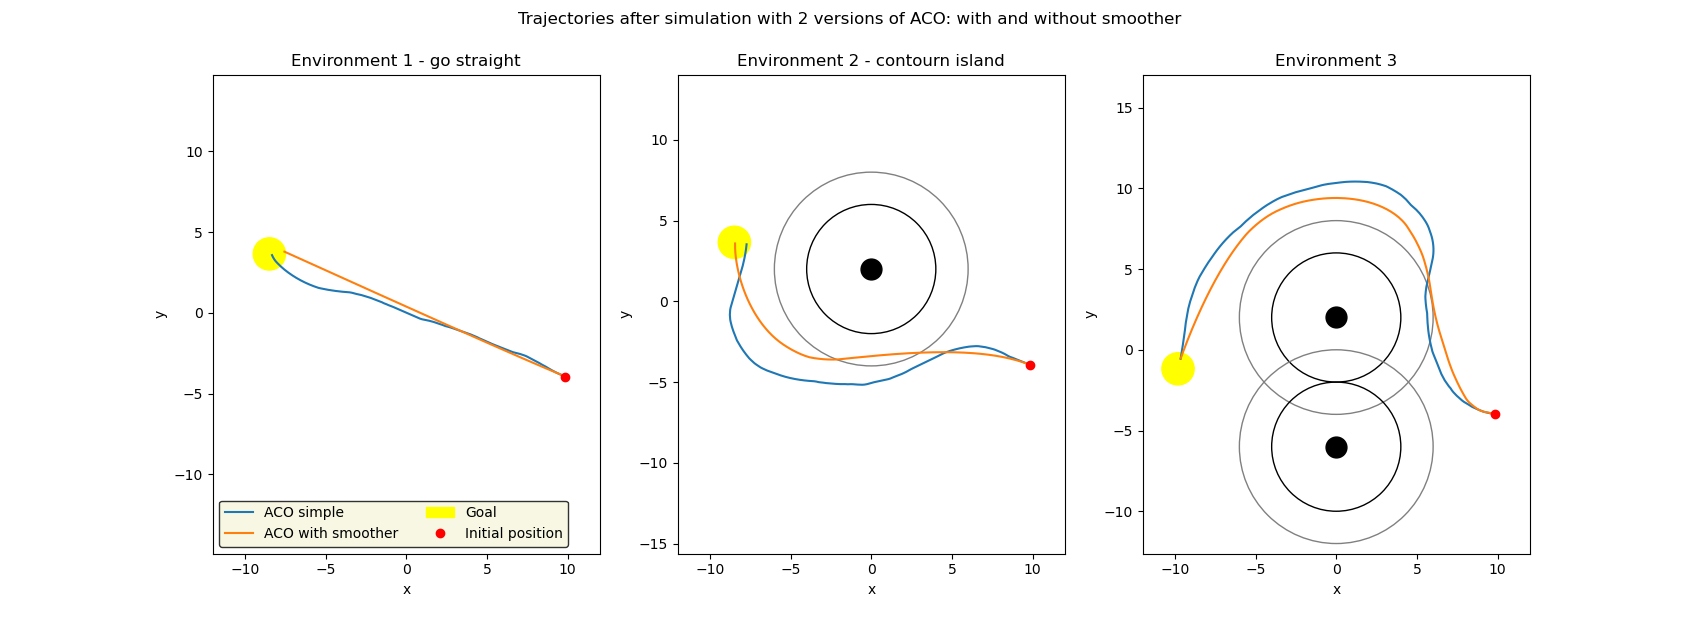
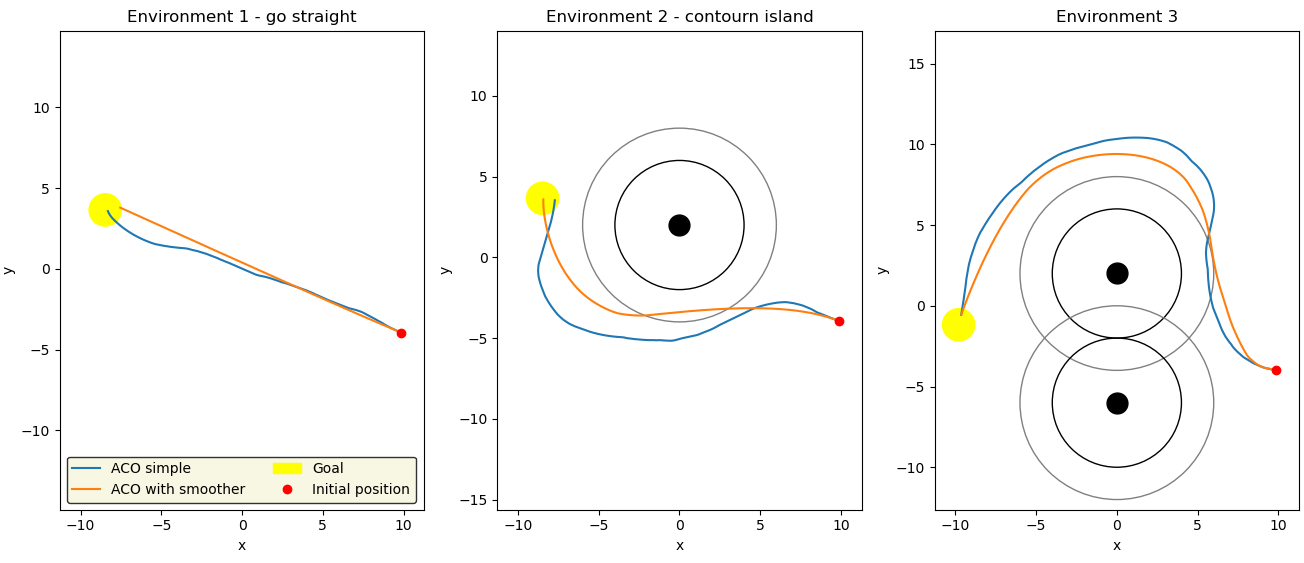
versionti

diff --git a/Algorithms_program/simulation_runner.py b/Algorithms_program/simulation_runner.py
@@ -14,7 +14,7 @@ class SimulationRunner:
         self.k = 0.5
         self.Ɛ = 2
         self.num_steps = 250         #number of steps of the simulation
-        self.environment = 4          #different environments (description below)
+        self.environment = 2          #different environments (description below)
         self.record_data = False      #set to True to record the data or to False to display the simulation
         self.rules = [
             ["Rules :"],
@@ -39,19 +39,19 @@ class SimulationRunner:
 
         if self.environment == 0:
             ''' The original simulator with 1 whale, 1 boat, 1 island and 1 ship.'''
-            sea_objects.append(Whale(111, -0.5, -3.5, 1.5, 1.5, "PSO"))
-            sea_objects.append(Boat(222, -3, 5, 1.5, 0.25, "PSO"))
+            sea_objects.append(Whale(111, -0.5, -3.5, 1.5, 1.5, "APF"))
+            sea_objects.append(Boat(222, -3, 5, 1.5, 0.25, "APF"))
             sea_objects.append(Island(333, 0, 2, 0, 1))
-            sea_objects.append(Ship(444, 10,-4, 1.5, 3, "PSO"))
+            sea_objects.append(Ship(444, 10,-4, 1.5, 3, "APF"))
      
         elif self.environment == 1:
             '''Only one ship, has to go straight.'''
-            sea_objects.append(Ship(444, 10,-4, 1.5, pi*7/8, "D*Lite"))
+            sea_objects.append(Ship(444, 10,-4, 1.5, pi*7/8, "PSO"))
 
         elif self.environment == 2:
             '''One island to slightly contourn.'''
             sea_objects.append(Island(333, 0, 2, 0, 1))
-            sea_objects.append(Ship(444, 10,-4, 1.5, pi*7/8, "D*Lite"))
+            sea_objects.append(Ship(444, 10,-4, 1.5, pi*7/8, "PSO"))
 
         elif self.environment == 3:
             '''U shape with a potential minimum.'''     # with APF, the ship is stuck at a minima
@@ -61,24 +61,24 @@ class SimulationRunner:
 
         elif self.environment == 4:
             '''Slalom with 2 islands and 1 ship.'''
-            sea_objects.append(Ship(444, 10,-10, 1.5, 2.4, "A*", 30))
+            sea_objects.append(Ship(444, 10,-10, 1.5, 2.4, "PSO", 30))
             sea_objects.append(Island(333, -2, 7, 0, 1))
             sea_objects.append(Island(332, 2, -10, 0, 1))
 
         elif self.environment == 5:
             '''Two boats facing each other.'''
-            sea_objects.append(Ship(444, 12, 0, 1.5, pi, "A*",30))
+            sea_objects.append(Ship(444, 12, 0, 1.5, pi, "PSO",30))
             sea_objects.append(Ship(555, -12, 0, 1.5, 0, "PSO",30)) 
 
         elif self.environment == 6:
             '''A ship overtaking a boat.'''
-            real=False
+            real=True
             if real==False:     #exactly overtaking
                 sea_objects.append(Ship(444, -18, 0, 3, 0, "PSO",36))      
                 sea_objects.append(Ship(555, -7, 0, 1, 0, "PSO",15))
             else:               #more realistic overtake
-                sea_objects.append(Ship(444, -15, -2, 3, 0.4, "A*",32))      
-                sea_objects.append(Ship(555, -5, 0, 1, 0, "A*",15))
+                sea_objects.append(Ship(444, -15, -2, 3, 0.4, "ACO",32))      
+                sea_objects.append(Ship(555, -5, 0, 1, 0, "ACO",15))
 
         else:
             '''Not a fixed env, to be changed.'''
@@ -96,9 +96,7 @@ class SimulationRunner:
             #sea_objects.append(Island(333, 0, 2, 0, 1))
             # sea_objects.append(Ship(555, -10, -4, 1.5, 1, "APF"))
             #sea_objects.append(Ship(444, 10,-4, 1.5, 3, "APF"))
-            
-        
-        
+                 
         return sea_objects
 
     def initialize_data(self, sea_object, rules):
@@ -126,39 +124,4 @@ class SimulationRunner:
             simulation.run_with_data(self.record_data, self.num_steps, mmsi_list, rules, table, ax, self.Ɛ, self.s)
         else:
             simulation.run(self.record_data, self.num_steps, mmsi_list, rules, table, ax, ax_leg, self.Ɛ, self.s)
-
-
-
-    # ------------------------------------------------------------------------------------------------
-
-""" Examples of initial position to test different cases """
-
-''' Four boats '''
-# sea_objects.append(Boat(111, -2.5, -3.5, 1.5, 0.25))  # x,y,v,θ of the boat
-# sea_objects.append(Boat(222, 1.5, 1.5, 0.5, 1))  # x,y,v,θ of the boat
-# sea_objects.append(Boat(333, -1, 3, 1.5, 4.75))  # x,y,v,θ of the boat
-# sea_objects.append(Boat(444, 0, 0, 0.25, 2))
-
-''' Left lower zone '''
-# xp = array([[-2.5,-5,2,1]]).T      #x,y,v,θ of the boat
-# xq = array([[2,0,0.25,2]]).T    #x,y,v,θ of the obstacle boat
-
-''' Right lower zone '''
-# xp = array([[5,-6,1.5,2]]).T      #x,y,v,θ of the boat
-# xq = array([[0,0,0.25,2]]).T    #x,y,v,θ of the obstacle boat
-
-''' Left upper zone '''
-# xp = array([[-1,2,1.5,5]]).T      #x,y,v,θ of the boat
-# xq = array([[0,-2,0.25,2]]).T    #x,y,v,θ of the obstacle boat
-
-''' Right upper zone '''
-# xp = array([[3,3,1.5,4]]).T      #x,y,v,θ of the boat
-# xq = array([[0,-2,0.25,2]]).T    #x,y,v,θ of the obstacle boat
-
-''' Opposite direction '''
-# xp = array([[-1, 3, 1.5, 4.75]]).T      #x,y,v,θ of the boat
-# xq = array([[0,-2, 0.25, 1.75]]).T    #x,y,v,θ of the obstacle boat
-
-# xp = array([[3, 3, 1.5, 4.75]]).T      #x,y,v,θ of the boat
-# xq = array([[0,-2, 0.25, 1.75]]).T    #x,y,v,θ of the obstacle boat
 

diff --git a/Algorithms_program/comparison/compare_overtake.py b/Algorithms_program/comparison/compare_overtake.py
@@ -68,10 +68,10 @@ def compare_traj_real():
     plt.suptitle("Trajectories after simulation with different algorithms\n One boat overtaking another boat (3 times slower)\n \n \n",fontsize=16)
     plt.subplots_adjust(hspace=0.3)
 
-    L=["Algorithms_program/comparison/data/simulation_log20240716-122130.csv",
+    L=["Algorithms_program/comparison/data/simulation_log20240814-151950.csv",  #0716-122130
        "Algorithms_program/comparison/data/simulation_log20240725-141604.csv",        #16-122150
        "Algorithms_program/comparison/data/simulation_log20240716-122937.csv",
-       "Algorithms_program/comparison/data/simulation_log20240724-114413.csv",
+       "Algorithms_program/comparison/data/simulation_log20240814-154830.csv",  
        "Algorithms_program/comparison/data/simulation_log20240716-122319.csv"]
     labe=['APF','A*','D* Lite','ACO','PSO']
 
@@ -185,14 +185,14 @@ def compare_traj_speed():
         j+=1
 
 
-def compare_matrice():
-    """Show the results of the simulation (trajectories) with different algorithms for a more realistic overtaking in an algorithm matrice.
+def compare_matrix():
+    """Show the results of the simulation (trajectories) with different algorithms for a more realistic overtaking in an algorithm matrix.
     """
-    plt.figure("Trajectories after simulation matrice",figsize=(16,10))
+    plt.figure("Trajectories after simulation matrix",figsize=(15,8))
     plt.suptitle("Trajectories after simulation with different algorithms\n Blue boat (at 3*v) overtaking orange boat (at v)\n \n \n",fontsize=16)
     plt.subplots_adjust(hspace=0.3)
 
-    L=["Algorithms_program/comparison/data/simulation_log20240716-122130.csv",
+    L=["Algorithms_program/comparison/data/simulation_log20240814-151950.csv",
        "Algorithms_program/comparison/data/simulation_log20240719-150856.csv",
        "Algorithms_program/comparison/data/simulation_log20240719-150927.csv",
        "Algorithms_program/comparison/data/simulation_log20240719-151001.csv",
@@ -245,7 +245,7 @@ def compare_matrice():
         plt.axis('equal')
         plt.xlabel("x")
         plt.ylabel("y")
-        plt.xlim(-20,20)
+        plt.xlim(-18,20)
         #plt.legend(facecolor='beige', edgecolor='black',ncol=2, loc='lower left')
 
         j+=1
@@ -254,7 +254,7 @@ def compare_matrice():
 compare_traj()
 compare_traj_real()
 compare_traj_speed()
-compare_matrice()
+compare_matrix()
 
 plt.show()
 

diff --git a/Algorithms_program/comparison/compare_pso.py b/Algorithms_program/comparison/compare_pso.py
@@ -158,6 +158,7 @@ def compare_trajectories(mmsi):
     plt.axis('equal')
     plt.xlabel("x")
     plt.ylabel("y")
+    #plt.xlim(-11,13)
     plt.title("Different PSO trajectories, depending on the number of iterations \n \n \
               Environment 3, population size = 200, number of runs = 2, number of waypoints = 3")
     plt.legend(facecolor='beige', edgecolor='black',loc='upper right')
@@ -208,6 +209,7 @@ def compare_trajectories(mmsi):
     plt.axis('equal')
     plt.xlabel("x")
     plt.ylabel("y")
+    #plt.xlim(-11,13)
     plt.title("Different PSO trajectories, depending on the number of particles \n \n \
               Environment 3, number of iterations = 50, number of runs = 2, number of waypoints = 3")
     plt.legend(facecolor='beige', edgecolor='black',loc='upper right')
@@ -216,4 +218,7 @@ def compare_trajectories(mmsi):
     plt.subplots_adjust(wspace=0.2, hspace=0.5)
 
 compare_trajectories('444')
+
 plt.show()
+
+

diff --git a/Algorithms_program/comparison/compare_crossing.py b/Algorithms_program/comparison/compare_crossing.py
@@ -114,10 +114,10 @@ def compare_traj2():
 
         j+=1
 
-def compare_matrices():
-    """Show the results of the simulation (trajectories) with different algorithms for a crossing in an alogorithm matrice.
+def compare_matrixs():
+    """Show the results of the simulation (trajectories) with different algorithms for a crossing in an alogorithm matrix.
     """
-    plt.figure("Trajectories after crossing matrice",figsize=(16,10))
+    plt.figure("Trajectories after crossing matrix",figsize=(16,10))
     plt.suptitle("Trajectories after simulation with different algorithms\n Two boats facing exactly each others - bleu go left (pi), orange go right\n \n \n",fontsize=16)
     plt.subplots_adjust(hspace=0.3)
 
@@ -181,6 +181,6 @@ def compare_matrices():
 
 compare_traj()
 #compare_traj2()
-compare_matrices()
+compare_matrixs()
 
 plt.show()

diff --git a/Algorithms_program/comparison/analyse_algo.py b/Algorithms_program/comparison/analyse_algo.py
@@ -44,5 +44,5 @@ def calculate_dist(name,mmsi):
     perc=diff/line*100
     return distance,line,diff,perc
 
-print(calculate_dist("Algorithms_program/comparison/data/simulation_log20240725-165723.csv",'444'))
+print(calculate_dist("Algorithms_program/comparison/data/simulation_log20240724-155453.csv",'444'))
 #print(calculate_dist("Algorithms_program/comparison/data/simulation_log20240705-103556.csv",'555'))

diff --git a/Algorithms_program/algo_pso.py b/Algorithms_program/algo_pso.py
@@ -412,6 +412,7 @@ def centroid(V):
 
 
 def path_penalty(obs, Px, Py):
+    
     """
     Returns a penalty value if any point of the path violates any of the
     obstacles. To speed up the calculation the algorithms have been designed

diff --git a/Algorithms_program/README.md b/Algorithms_program/README.md
@@ -1,5 +1,3 @@
-This simulator was implemented taking the main_program as a base. It keeps the same format while adding new features.
-
 # Main Program of USV Simulator
 
 This directory contains the most up-to-date and comprehensive version of the USV simulator. It introduces a more sophisticated structure for the simulation of sea objects. The main components are:
@@ -12,9 +10,9 @@ This directory contains the most up-to-date and comprehensive version of the USV
 
 ## SimulationRunner
 
-In `SimulationRunner`, several key constants are initialized, such as `s`, `dt`, `k`, `num_steps`. A separate `RuleApplicationWindow` is also initialized to display the rules of collision avoidance at sea. 
+In `SimulationRunner`, several key constants are initialized, such as `s`, `dt`, `k`, `num_steps`. A separate `RuleApplicationWindow` is also initialized to display the rules of collision avoidance at sea. A pre-defined environment can also be choosen.
 
-A function called `initialize_sea_objects()` creates various sea objects (`Boat`, `Ship`, `Whale`, `Island` etc.). These objects are initialized with parameters such as `x`, `y`, `v`, and `theta`, then added to the `sea_objects` vector. 
+A function called `initialize_sea_objects()` creates various sea objects (`Boat`, `Ship`, `Whale`, `Island` etc.). These objects are initialized with parameters such as `x`, `y`, `v`, `theta`, `algo`, and `destination_distance` then added to the `sea_objects` vector. 
 
 The `run()` function then takes this `sea_objects` vector and the `RuleApplicationWindow`, and passes them to the `Simulation`.
 
@@ -46,22 +44,19 @@ Available algorithms are "APF", "A*", "D*Lite", "ACO" and "PSO".
 The algorithms are coded in their own file and implemented for the simulator in the [sea_object.py](./sea_object.py) file.
 
 Algorithms already implemented are
-- Artificial potential fields [here](./algo_potential_fields.py): initially present in the simulator, works well with mutiple objects if there is non "wall" obstacles.
-- A* [here](./algo_astar.py): two differents versions selected online. It's a Dijkstra algorithm with heuristics
-- D* Lite [here](./algo_dstar_lite.py): amelioration of A*.
-- Ant Colony Optimisation [here](./algo_aco.py)
-- Particle Swarm Optimisation [here](./algo_pso.py)
-
+- Artificial potential fields [here](./algo_potential_fields.py): initially present in the simulator,
+- A* [here](./algo_astar.py): a popular grid-based algorithm that uses heuristics (amelioration of Dijkstra algorithm),
+- D* Lite [here](./algo_dstar_lite.py): an improvement of A* that dynamically replans the path,
+- Ant Colony Optimization [here](./algo_aco.py): a probabilistic technique inspired by the pheromone-based communication of real ants,
+- Particle Swarm Optimization [here](./algo_pso.py): an exploratory algorithm that iteratively tries to improve a candidate solution.
 
 ## Algorithm comparison
 
-The [compare_algo.py](./compare_algo.py) file compare the algorithms based on multiple factors.
+The comparison folder contains file to compare the performace and efficiency of the algorithms.
 
-For the first iteration (static), it compares the time to find a path and the number of times the main loop of the programm is played.
+The [compare_algo.py](./compare_algo.py) file compare the algorithms based on multiple factors.
 
 Another function calculate the length of a path taken by a sea object to reach it's goal and compare them.  
 To use it, first run the simulator with `self.record_data` set to True (in [simulation_runner.py](./simulation_runner.py)) then use the function `calculate_dist()` to compute the length of the path.
 
-The [compare_pso.py](./compare_pso.py) file compare the results of PSO with different parameters.
-
-Giving up on compare_energy or memory at the moment because of the configuration of the computer use.
+The different "compare" file like [compare_pso.py](./compare_pso.py) compare the results of specifics algorithms.
